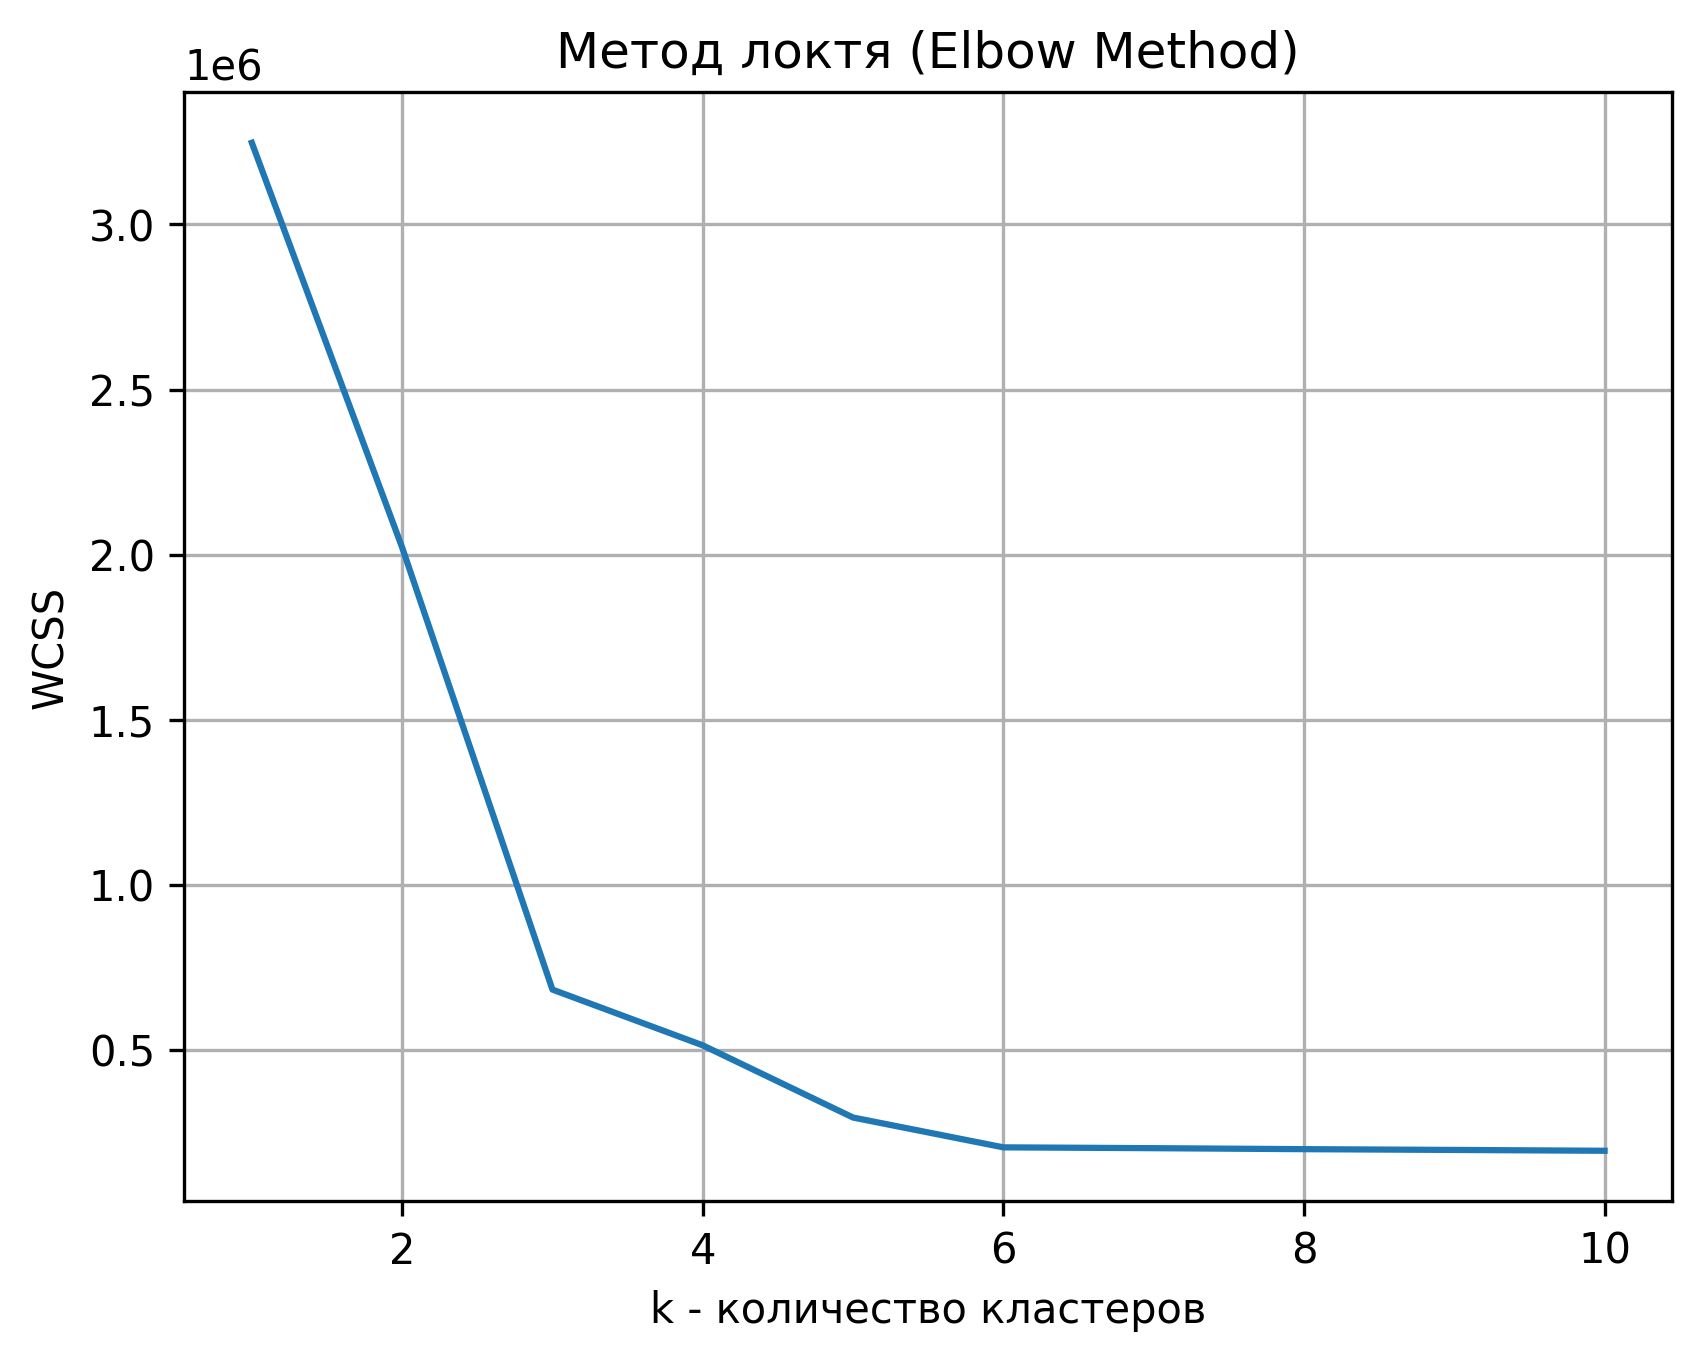
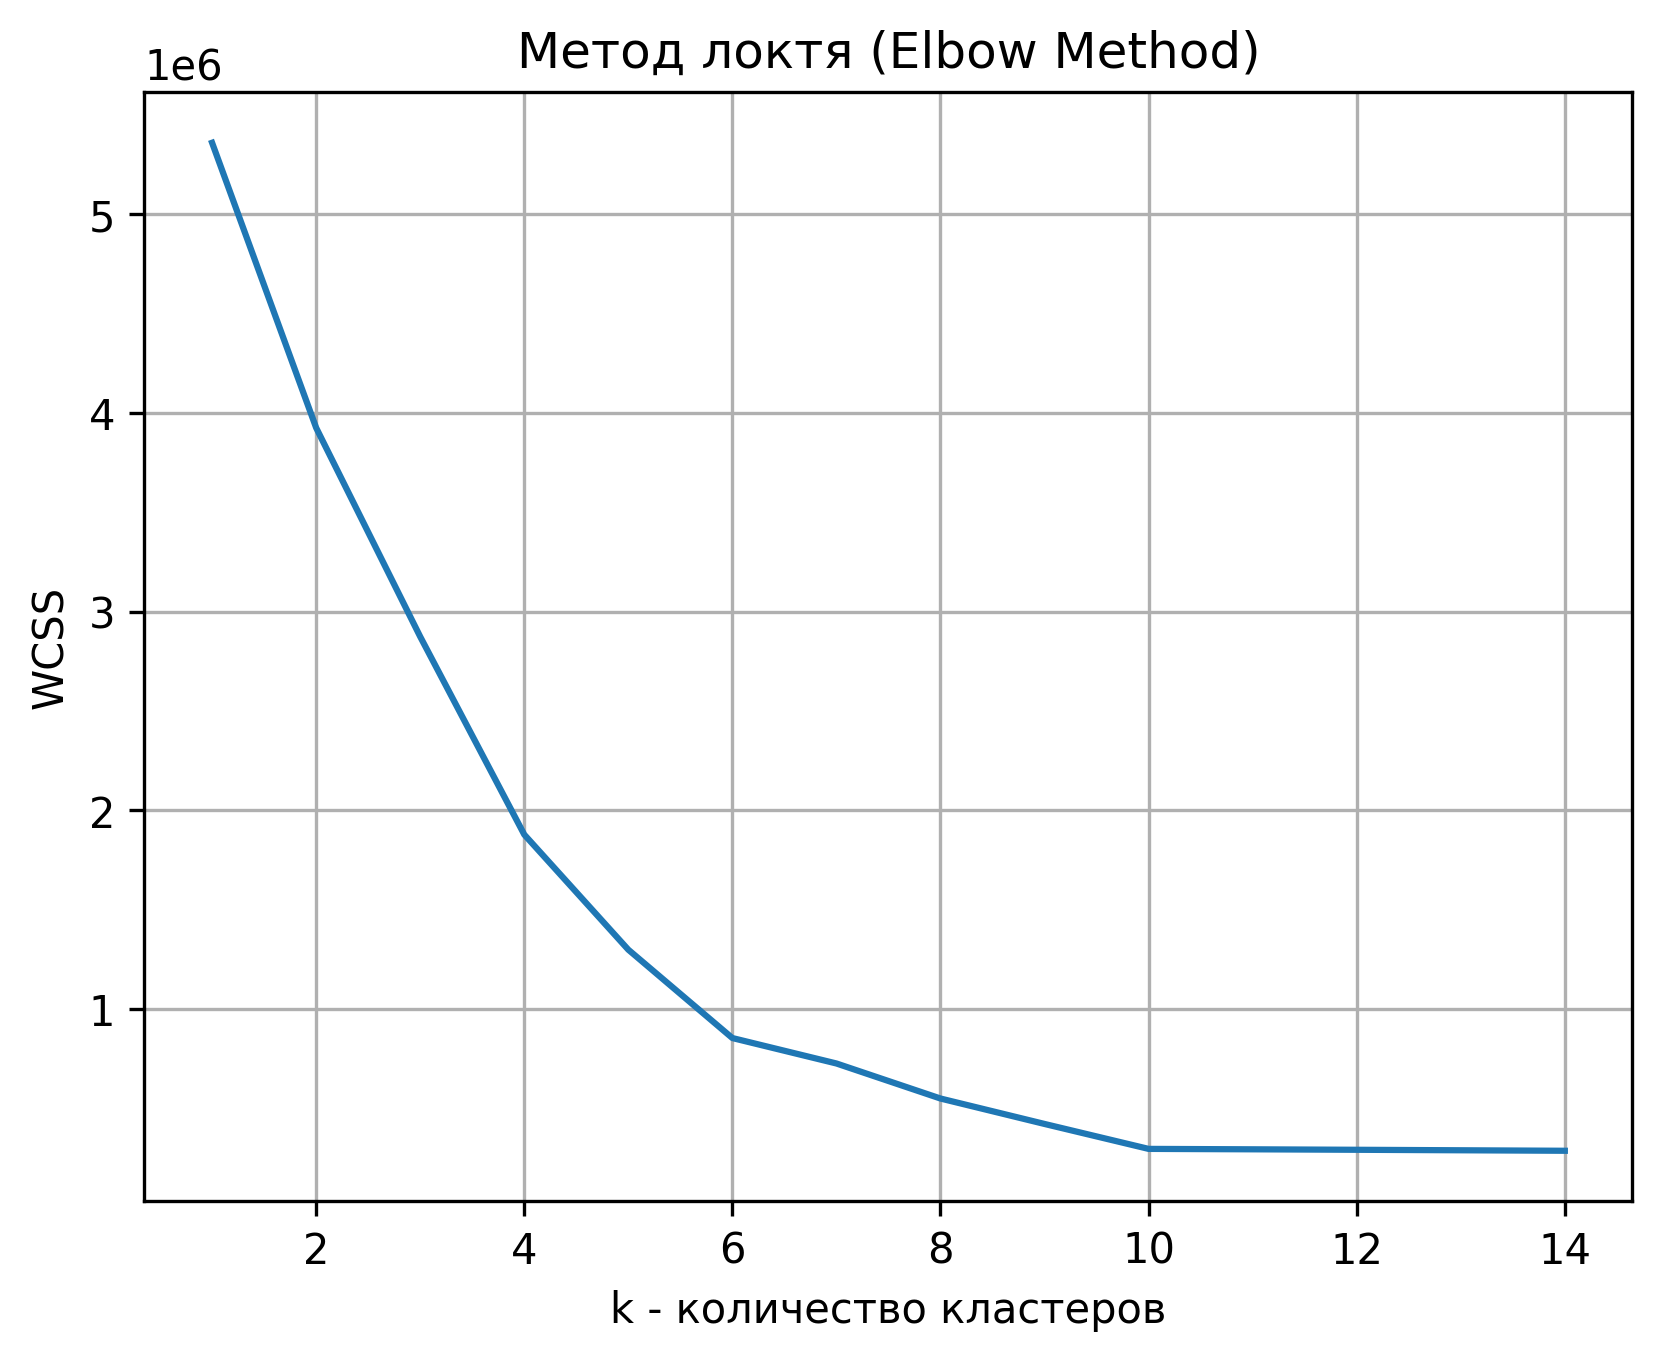
Добавление новых кластеров пользователей. Гибридная рекомендательная система

diff --git a/hybrid_recommender.py b/hybrid_recommender.py
@@ -1,0 +1,185 @@
+import os
+import django
+from django.core.cache import cache
+os.environ.setdefault("DJANGO_SETTINGS_MODULE", "myapp.settings")
+django.setup()
+from app.models import Movie, Favorite, MovieRating
+from django.contrib.auth.models import User
+from content_based import MovieRecommender as ContentBasedRecommender
+from collaborative_filtering import MovieRecommender as CollaborativeRecommender
+
+class HybridRecommender:
+    
+    def __init__(self):
+        self.collaborative = CollaborativeRecommender()
+        self.is_trained = False
+    
+    def train(self, verbose=False):
+        self.collaborative.train(verbose=verbose)
+        self.is_trained = True
+        return True
+    
+    def recommend_hybrid(self, user_id, n=10, cf_weight=0.5, cb_weight=0.5, verbose=False):
+        """
+        Гибридные рекомендации
+        cf_weight - вес коллаборативной фильтрации (0-1)
+        cb_weight - вес контентной фильтрации (0-1)
+        cf_weight + cb_weight = 1
+        """
+        cache_key = f"hybrid_recs_{user_id}_{n}_{cf_weight}_{cb_weight}"
+        cached = cache.get(cache_key)
+        if cached:
+            return cached
+        
+        # Получаем пользователя
+        try:
+            user = User.objects.get(id=user_id)
+        except User.DoesNotExist:
+            return []
+        
+        # Нормализуем веса
+        total_weight = cf_weight + cb_weight
+        cf_weight_norm = cf_weight / total_weight
+        cb_weight_norm = cb_weight / total_weight
+        
+        # Коллаборативные рекомендации
+        cf_movies_with_scores = []
+        if cf_weight > 0 and self.is_trained:
+            if user_id in self.collaborative.user_to_index:
+                pred = self.collaborative.predict_user_based_k_fract_mean(top=100)
+                if not isinstance(pred, bool):
+                    cf_movies = self.collaborative.recommend_movies(user_id, pred, n=n*3)
+                    # Присваиваем веса на основе позиции
+                    for i, movie in enumerate(cf_movies):
+                        score = 1.0 - (i / (n*3)) * 0.5  # от 1.0 до 0.5
+                        cf_movies_with_scores.append((movie, score))
+        
+        # Контентные рекомендации
+        cb_movies_with_scores = []
+        if cb_weight > 0:
+            cb = ContentBasedRecommender(user)
+            cb_movies = cb.recommend_movies(n=n*3)
+            for i, movie in enumerate(cb_movies):
+                score = 1.0 - (i / (n*3)) * 0.5  # от 1.0 до 0.5
+                cb_movies_with_scores.append((movie, score))
+        
+        # Объединяем с весами
+        movie_scores = {}
+        
+        for movie, score in cf_movies_with_scores:
+            movie_scores[movie.id] = movie_scores.get(movie.id, 0) + score * cf_weight_norm
+        
+        for movie, score in cb_movies_with_scores:
+            movie_scores[movie.id] = movie_scores.get(movie.id, 0) + score * cb_weight_norm
+        
+        # Исключаем уже просмотренные
+        excluded_ids = set(
+            list(Favorite.objects.filter(user=user).values_list('movie_id', flat=True)) +
+            list(MovieRating.objects.filter(user=user).values_list('movie_id', flat=True))
+        )
+        
+        # Сортируем и получаем топ-N
+        sorted_movies = sorted(
+            [(movie_id, score) for movie_id, score in movie_scores.items() if movie_id not in excluded_ids], 
+            key=lambda x: x[1], 
+            reverse=True
+        )
+        
+        recommendations = []
+        for movie_id, score in sorted_movies[:n]:
+            try:
+                movie = Movie.objects.get(id=movie_id)
+                recommendations.append(movie)
+                if verbose:
+                    print(f"{movie.id:2d}. {movie.movie_name:40} | Гибридный score: {score:.3f}")
+            except Movie.DoesNotExist:
+                continue
+        
+        cache.set(cache_key, recommendations, timeout=60*5)
+        return recommendations
+    
+    def recommend_adaptive(self, user_id, n=10, verbose=False):
+        try:
+            user = User.objects.get(id=user_id)
+        except User.DoesNotExist:
+            return []
+        
+        # Считаем активность пользователя
+        n_ratings = MovieRating.objects.filter(user=user).count()
+        n_favorites = Favorite.objects.filter(user=user).count()
+        total_activity = n_ratings + n_favorites
+        
+        if total_activity == 0:
+            # Новый пользователь - только контентная (холодный старт)
+            cf_weight, cb_weight = 0.0, 1.0
+        elif total_activity < 5:
+            # Мало активности - больше контентной
+            cf_weight, cb_weight = 0.3, 0.7
+        elif total_activity < 15:
+            # Средняя активность - баланс
+            cf_weight, cb_weight = 0.5, 0.5
+        else:
+            # Много активности - больше коллаборативной
+            cf_weight, cb_weight = 0.7, 0.3
+        
+        if verbose:
+            print(f"Активность пользователя: {total_activity}")
+            print(f"Веса: CF={cf_weight:.2f}, CB={cb_weight:.2f}")
+        
+        return self.recommend_hybrid(user_id, n, cf_weight, cb_weight, verbose)
+
+def main():
+    user = User.objects.get(username='admin')
+    user_id = user.id
+    
+    print(f'Информация о пользователе: {user.username} (id={user_id})')
+    
+    favorites = Favorite.objects.filter(user=user).select_related('movie')
+    print(f'Избранные фильмы ({favorites.count()}):')
+    for f in favorites:
+        print(f"  {f.movie.id}. {f.movie.movie_name}")
+    
+    ratings = MovieRating.objects.filter(user=user).select_related('movie').order_by('-user_rating')
+    print(f'Оценки ({ratings.count()}):')
+    for r in ratings:
+        print(f"  {r.movie.id}. {r.movie.movie_name} | Оценка: {r.user_rating}")
+    
+    # Создаем и обучаем гибридную модель
+    hybrid = HybridRecommender()
+    hybrid.train(verbose=True)
+    
+    # Только коллаборативная фильтрация
+    print('1. Коллаборативная фильтрация:')
+    if user_id in hybrid.collaborative.user_to_index:
+        pred = hybrid.collaborative.predict_user_based_k_fract_mean(top=100)
+        if not isinstance(pred, bool):
+            cf_recs = hybrid.collaborative.recommend_movies(user_id, pred, n=5, verbose=True)
+    
+    # Только контентная фильтрация
+    print('2. Контентная фильтрация:')
+    cb = ContentBasedRecommender(user)
+    cb_recs = cb.recommend_movies(n=5)
+    for i, movie in enumerate(cb_recs, 1):
+        print(f"  {i:2d}. {movie.movie_name}")
+    
+    # Гибридные рекомендации (сбалансированные)
+    print('3. Гибридные рекомендации (CF=0.5, CB=0.5):')
+    hybrid_recs_balanced = hybrid.recommend_hybrid(user_id, n=5, cf_weight=0.5, cb_weight=0.5, verbose=True)
+    
+    # Адаптивные гибридные рекомендации
+    print('4. Адаптивные гибридные рекомендации:')
+    hybrid_recs_adaptive = hybrid.recommend_adaptive(user_id, n=5, verbose=True)
+    
+    # Анализ пересечений
+    cf_ids = {m.id for m in cf_recs} if 'cf_recs' in locals() else set()
+    cb_ids = {m.id for m in cb_recs}
+    hybrid_ids = {m.id for m in hybrid_recs_adaptive}
+    
+    print(f'CF И CB: {len(cf_ids & cb_ids)} фильмов')
+    print(f'CF И Гибрид: {len(cf_ids & hybrid_ids)} фильмов')
+    print(f'CB И Гибрид: {len(cb_ids & hybrid_ids)} фильмов')
+    print(f'Уникальные для гибрида: {len(hybrid_ids - cf_ids - cb_ids)} фильмов')
+
+
+if __name__ == "__main__":
+    main()

diff --git a/generating_synthetic_users.py b/generating_synthetic_users.py
@@ -250,12 +250,12 @@ class Visualizer:
     @staticmethod
     def elbow_method(data_X):
         wcss = []
-        for i in range(1, 11):
+        for i in range(1, 15):
             model = KMeans(n_clusters=i, random_state=0, n_init="auto")
             model.fit(data_X)
             wcss.append(model.inertia_)
 
-        plt.plot(range(1, 11), wcss)
+        plt.plot(range(1, 15), wcss)
         plt.title('Метод локтя (Elbow Method)')
         plt.xlabel('k - количество кластеров')
         plt.ylabel('WCSS')
@@ -270,7 +270,7 @@ class Visualizer:
 
         results = {}
 
-        for i in range(2,11):
+        for i in range(2,15):
             model = KMeans(n_clusters=i, random_state=0, n_init="auto")
             model.fit(data_X)
             predicted_clusters = model.fit_predict(data_X)
@@ -292,7 +292,7 @@ class Visualizer:
 
         results = {}
 
-        for i in range(2,11):
+        for i in range(2,15):
             model = KMeans(n_clusters=i, random_state=0, n_init="auto")
             predicted_clusters = model.fit_predict(data_X)
             sil_score = silhouette_score(data_X, predicted_clusters)
@@ -446,7 +446,9 @@ def main():
             (50, 60): "Квентин Тарантино",
             (60, 70): "Гай Ричи",
             (70, 80): "Роберт Земекис",
-            (80, 90): "Стивен Роач"
+            (80, 90): "Стивен Роач",
+            (90, 100): "Стивен Спилберг",
+            (100, 110): "Дэвид Линч",
         },
         "favorite_country": {
             (0, 30): "США",
@@ -500,7 +502,27 @@ def main():
             name="Любители ужасов",
             center=[85, 65, 75, 20, 1, 2, 4, 6, 8, 12, 30, 18, 25, 95, 18],
             std=4
-        )
+        ),
+            Cluster(
+            name="Любители документального кино",
+            center=[15, 25, 95, 45, 8, 10, 15, 5, 3, 1, 15, 8, 12, 90, 12],
+            std=3
+        ),
+        Cluster(
+            name="Любители артхауса",
+            center=[35, 45, 108, 55, 2, 3, 5, 8, 10, 12, 18, 10, 15, 105, 16],
+            std=4
+        ),
+        Cluster(
+            name="Любители классики",
+            center=[25, 35, 38, 65, 12, 15, 18, 5, 2, 0, 22, 12, 18, 135, 0],
+            std=3
+        ),
+        Cluster(
+            name="Любители короткометражек",
+            center=[45, 55, 48, 25, 4, 6, 8, 10, 12, 14, 28, 15, 22, 45, 6],
+            std=4
+        ),
     ]
     features = [
         'favorite_genre', 'high_rated_genre', 'favorite_director', 'favorite_country',
@@ -508,8 +530,8 @@ def main():
         'decade_count_10', 'decade_count_20', 'count_ratings', 'max_rating_count', 'favorites_count',
         'avg_runtime', 'avg_age_rating'
     ]
-    N_users = 1000
-    generator = UsersGenerator(clusters=clusters, n_users=1000, features=features)
+    N_users = 1500
+    generator = UsersGenerator(clusters=clusters, n_users=N_users, features=features)
     data = generator.generate_data()
     print("Сгенерированы пользователи.")
     print("Определение оптимального числа кластеров.")
